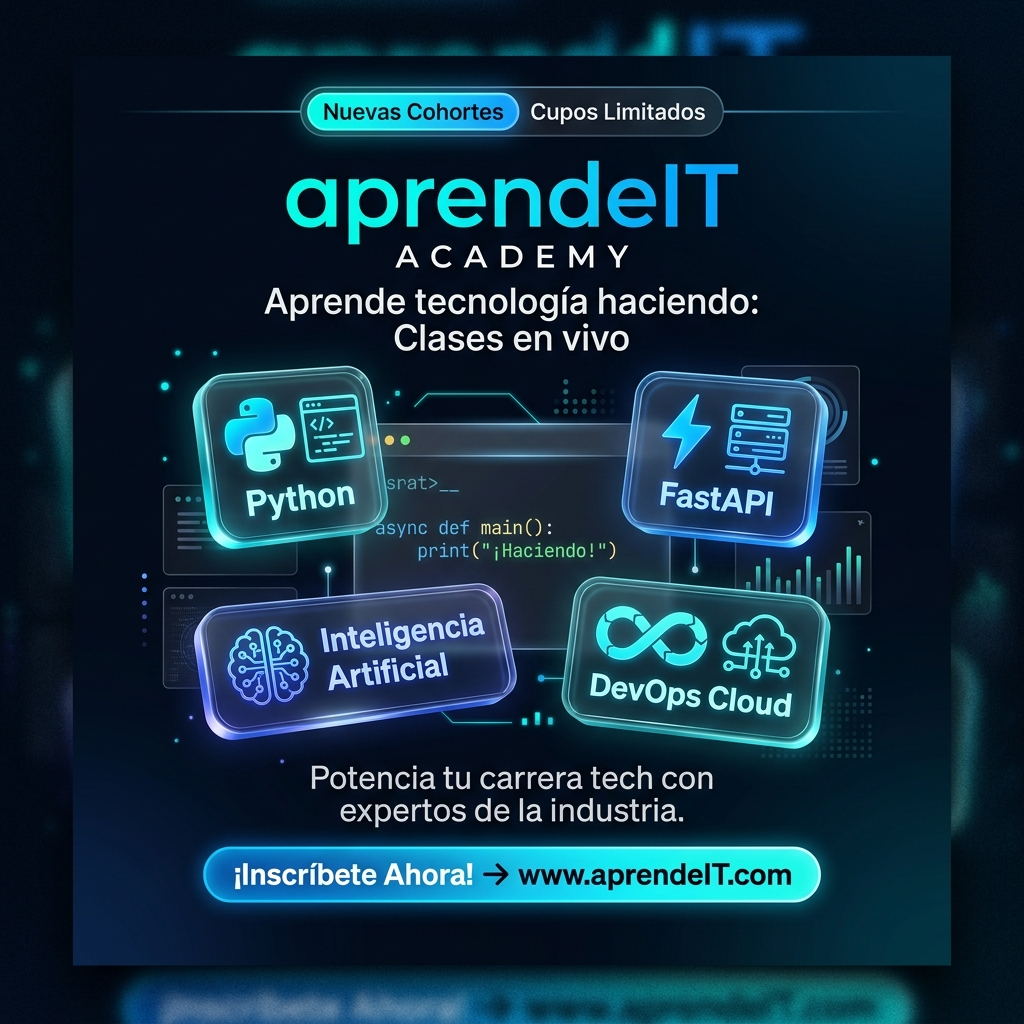
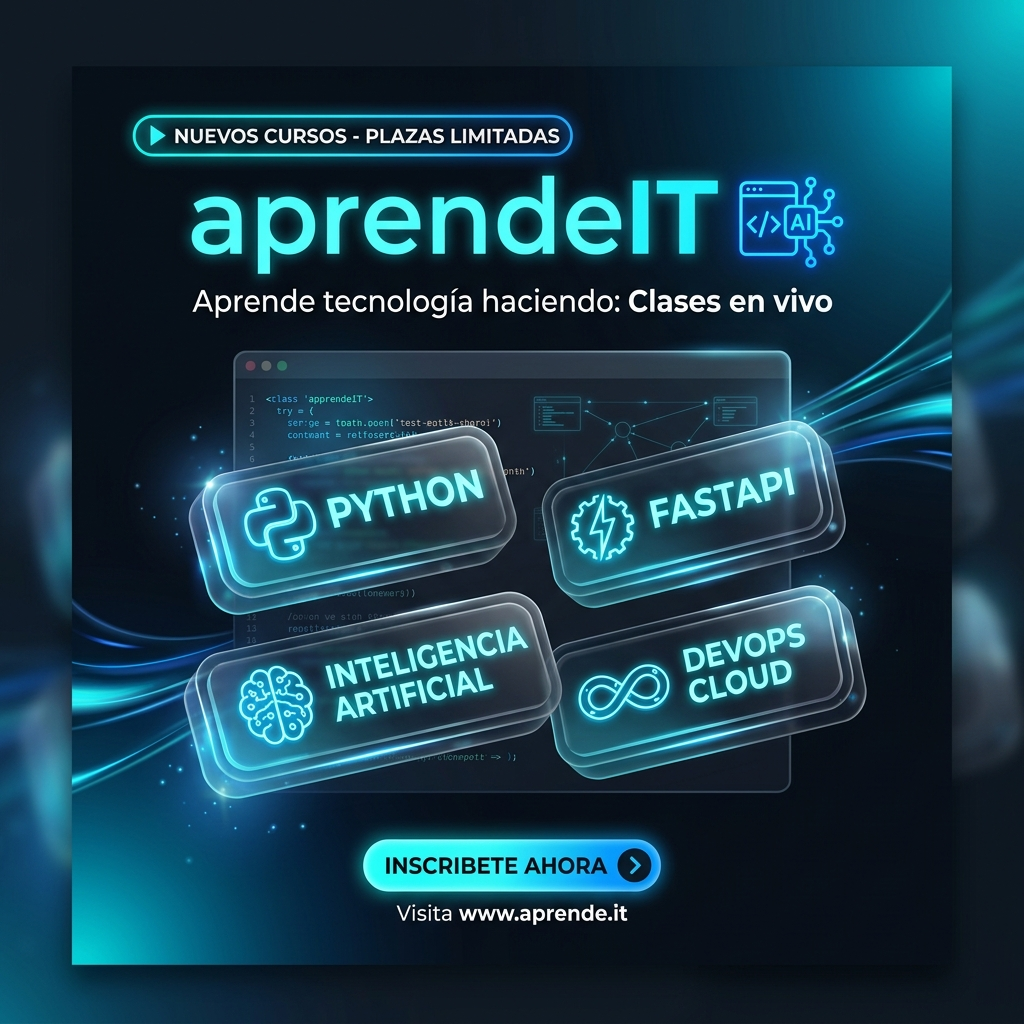
refactor: update terminology across landing page and marketing kit to natural 'cursos' and 'plazas'

diff --git a/index.html b/index.html
@@ -19,11 +19,11 @@
   <div class="announcement">
     <div class="container announcement__inner">
       <span class="announcement__dot" aria-hidden="true"></span>
-      <span>Nuevas cohortes en Septiembre 2026</span>
+      <span>Inscripciones abiertas · Próximos cursos</span>
       <span class="announcement__separator">·</span>
-      <span>Cupos reducidos por grupo</span>
+      <span>Plazas reducidas por grupo</span>
       <span class="announcement__separator">·</span>
-      <a href="#programas">Conocé los 4 programas <span aria-hidden="true">↗</span></a>
+      <a href="#cursos">Conocé los 4 cursos <span aria-hidden="true">↗</span></a>
     </div>
   </div>
 
@@ -40,14 +40,14 @@
       </button>
 
       <nav class="primary-nav" id="primary-nav" aria-label="Navegación principal">
-        <a href="#programas">Programas</a>
+        <a href="#cursos">Cursos</a>
         <a href="#docentes">Docente</a>
         <a href="#metodo">Nuestro método</a>
         <a href="#recorrido">Recorrido</a>
         <a href="#testimonios">Comunidad</a>
         <a href="#faq">Preguntas</a>
         <a href="/login" style="color: var(--blue); font-weight: 800;">Aula Alumnos ↗</a>
-        <a class="button button--small button--nav" href="#programas">Ver programas <span aria-hidden="true">↗</span></a>
+        <a class="button button--small button--nav" href="#cursos">Ver cursos <span aria-hidden="true">↗</span></a>
       </nav>
     </div>
   </header>
@@ -62,7 +62,7 @@
           <p class="hero__lead">Cursos en vivo para dominar Python, Inteligencia Artificial, Desarrollo Web y Automatización con n8n. Dictados por Jeremias Toledo con un enfoque 100% práctico, código real y sin humo.</p>
           
           <div class="hero__actions">
-            <a class="button button--primary" href="#programas">Explorar programas <span aria-hidden="true">↗</span></a>
+            <a class="button button--primary" href="#cursos">Explorar cursos <span aria-hidden="true">↗</span></a>
             <button class="button button--text" type="button" data-open-quiz>Ayudame a elegir <span aria-hidden="true">→</span></button>
           </div>
 
@@ -126,30 +126,30 @@
       </div>
     </section>
 
-    <!-- PROGRAMAS / CURSOS SECTION (4 CURSOS) -->
-    <section class="programs section-pad" id="programas">
+    <!-- CURSOS SECTION (4 CURSOS) -->
+    <section class="programs section-pad" id="cursos">
       <div class="container">
         <div class="section-heading section-heading--split reveal">
           <div>
             <p class="eyebrow"><span class="eyebrow__line"></span>Elegí tu punto de partida</p>
-            <h2>4 Programas para<br /><em>seguir avanzando.</em></h2>
+            <h2>4 Cursos para<br /><em>seguir avanzando.</em></h2>
           </div>
           <p class="section-heading__side">Una cuidada selección de 4 cursos prácticos dictados por Jeremias Toledo para dominar las herramientas más demandadas hoy en tecnología e inteligencia artificial.</p>
         </div>
 
-        <div class="filter-bar" role="tablist" aria-label="Filtrar programas">
+        <div class="filter-bar" role="tablist" aria-label="Filtrar cursos">
           <button class="filter-button is-active" type="button" data-filter="all" role="tab" aria-selected="true">Todos</button>
           <button class="filter-button" type="button" data-filter="start" role="tab" aria-selected="false">Desde cero</button>
           <button class="filter-button" type="button" data-filter="grow" role="tab" aria-selected="false">Para crecer</button>
           <button class="filter-button" type="button" data-filter="intensive" role="tab" aria-selected="false">Intensivos</button>
-          <span class="filter-count" aria-live="polite"><span id="course-count">04</span> programas disponibles</span>
+          <span class="filter-count" aria-live="polite"><span id="course-count">04</span> cursos disponibles</span>
         </div>
 
         <div class="course-grid" id="course-grid">
           <!-- Cursos renderizados dinámicamente con JavaScript -->
         </div>
 
-        <p class="empty-state" id="empty-state" hidden>No encontramos programas en esta categoría. Probá con otra ruta.</p>
+        <p class="empty-state" id="empty-state" hidden>No encontramos cursos en esta categoría. Probá con otra ruta.</p>
 
         <div class="center-action">
           <a class="button button--outline" href="#contacto">Hacé una consulta personalizada con Jeremias <span aria-hidden="true">↗</span></a>
@@ -393,7 +393,7 @@
               <span class="faq-icon">+</span>
             </button>
             <div class="faq-answer">
-              <p>Todas las clases de los 4 programas son impartidas en vivo y de forma personalizada por <strong>Jeremias Toledo</strong>, fundador de aprendeIT. No delegamos en avatares ni tutores sin experiencia.</p>
+              <p>Todas las clases de los 4 cursos son impartidas en vivo y de forma personalizada por <strong>Jeremias Toledo</strong>, fundador de aprendeIT. No delegamos en avatares ni tutores sin experiencia.</p>
             </div>
           </div>
 
@@ -447,7 +447,7 @@
         <div class="contact__orb contact__orb--two"></div>
         <p class="eyebrow eyebrow--light"><span class="eyebrow__line"></span>El próximo paso empieza acá</p>
         <h2>¿Qué te gustaría<br /><em>construir?</em></h2>
-        <p>Contanos qué tenés en mente. Te ayudamos a elegir el programa que mejor acompaña tus metas técnicas y profesionales.</p>
+        <p>Contanos qué tenés en mente. Te ayudamos a elegir el curso que mejor acompaña tus metas técnicas y profesionales.</p>
         
         <div class="contact-actions">
           <a class="button button--white" href="https://wa.me/543876150875?text=Hola%20Jeremias,%20quiero%20consultar%20por%20los%20cursos%20de%20AprendeIT" target="_blank" rel="noopener">
@@ -471,7 +471,7 @@
       <p>La tecnología se aprende<br />haciendo con Jeremias Toledo.</p>
       
       <div class="footer-links">
-        <a href="#programas">4 Programas</a>
+        <a href="#cursos">4 Cursos</a>
         <a href="#docentes">Docente</a>
         <a href="#metodo">Método</a>
         <a href="#recorrido">Recorrido</a>
@@ -551,20 +551,20 @@
         <!-- Poblado dinámicamente con JS -->
       </div>
 
-      <h3 class="cd-syllabus-title">Contenido del Programa</h3>
+      <h3 class="cd-syllabus-title">Contenido del Curso</h3>
       <div class="cd-modules" id="modal-modules">
         <!-- Módulos inyectados dinámicamente -->
       </div>
 
       <div class="cd-pricing-box">
         <div>
-          <span class="cd-meta-label">Inversión del programa</span>
+          <span class="cd-meta-label">Inversión del curso</span>
           <div class="cd-price-main" id="modal-price">$130.000 ARS</div>
           <span class="cd-price-sub" id="modal-price-usd">o $135 USD</span>
           <div style="font-size: 11px; color: var(--muted); margin-top: 2px;" id="modal-installments">Hasta 6 cuotas fijas sin interés</div>
         </div>
         <a class="button button--primary" href="https://wa.me/543876150875" target="_blank" rel="noopener" id="modal-enroll-btn">
-          Reservar mi lugar <span aria-hidden="true">↗</span>
+          Reservar mi plaza <span aria-hidden="true">↗</span>
         </a>
       </div>
     </div>

diff --git a/main.js b/main.js
@@ -316,7 +316,7 @@ function fillModal(c) {
   }
 
   if (enrollBtn) {
-    const text = encodeURIComponent(`Hola Jeremias! Me interesa inscribirme al intensivo de 2 semanas "${c.title}" en AprendeIT.`);
+    const text = encodeURIComponent(`Hola Jeremias! Me interesa reservar una plaza para el curso "${c.title}" en AprendeIT.`);
     enrollBtn.href = `https://wa.me/543876150875?text=${text}`;
   }
 }

diff --git a/marketing/COPIES_REDES.md b/marketing/COPIES_REDES.md
@@ -1,6 +1,6 @@
 # 📱 Kit de Publicación para Redes Sociales — AprendeIT
 
-Aquí tenés los copies listos para copiar y pegar en cada una de tus plataformas, junto con las imágenes del flyer diseñadas para feed y stories.
+Copies listos para copiar y pegar en cada una de tus plataformas, redactados con un lenguaje natural, directo y enfocado en **cursos**, **plazas limitadas** y **práctica real**.
 
 ---
 
@@ -13,9 +13,9 @@ Aquí tenés los copies listos para copiar y pegar en cada una de tus plataforma
 ```text
 🚀 ¿Querés dominar la tecnología que hoy buscan las empresas?
 
-Dejá de perder tiempo en tutoriales aislados. En **aprendeIT** aprendés programando proyectos reales, en vivo y con mentoría directa.
+Dejá de perder tiempo en tutoriales grabados que no terminás. En **aprendeIT** aprendés programando proyectos reales, con clases 100% en vivo y acompañamiento directo.
 
-🔥 **Nuevas cohortes abiertas — Cupos reducidos por grupo:**
+🔥 **Inscripciones abiertas — Nuevos cursos intensivos (Plazas limitadas):**
 
 ⚡ **1. FastAPI & Microservicios:** Creá APIs asíncronas, arquitecturas escalables, Docker y PostgreSQL listos para producción.
 🤖 **2. Automatizaciones con IA & Agentes:** Conectá LLMs, LangChain, OpenAI, Notion y Webhooks para automatizar procesos clave.
@@ -23,21 +23,21 @@ Dejá de perder tiempo en tutoriales aislados. En **aprendeIT** aprendés progra
 ☁ **4. DevOps Cloud & CI/CD:** Desplegá tus aplicaciones con Docker, Nginx, GitHub Actions y servidores en la nube.
 
 💡 **¿Cómo es la experiencia aprendeIT?**
-✅ Clases 100% en vivo + acceso a grabaciones de por vida.
-✅ Práctica intensiva (2 semanas por programa con entregas reales).
-✅ Grupos reducidos para responder cada una de tus dudas en tiempo real.
+✅ Clases 100% en vivo + acceso a las grabaciones sin límite de tiempo.
+✅ Práctica intensiva (cursos de 2 semanas con entregas reales).
+✅ Grupos reducidos para responder cada una de tus dudas en el momento.
 ✅ Acceso a nuestra comunidad exclusiva de Discord y aula virtual.
 
-📍 **Cupos estrictamente limitados para mantener la calidad de mentoría.**
+📍 **Pocas plazas por curso para garantizar que cada alumno avance a paso firme.**
 
-👉 Conocé los temarios completos y reservá tu lugar en:
+👉 Conocé los temarios completos y asegurá tu lugar en:
 🌐 https://aprendeit-net.github.io
 
 💬 O escribinos directamente por WhatsApp para asesorarte:
 📲 https://wa.me/543876150875
 
 ---
-#AprendeIT #Programacion #FastAPI #Python #InteligenciaArtificial #DevOps #Docker #Backend #DesarrolloWeb #TechEducation #AprenderAProgramar #CodingBootcamp #CursosOnline
+#AprendeIT #Programacion #FastAPI #Python #InteligenciaArtificial #DevOps #Docker #Backend #DesarrolloWeb #TechEducation #AprenderAProgramar #CursosProgramacion #CursosOnline
 ```
 
 ---
@@ -49,25 +49,25 @@ Dejá de perder tiempo en tutoriales aislados. En **aprendeIT** aprendés progra
 ### 📝 Copy:
 
 ```text
-El mercado tecnológico no busca más certificados teóricos: busca desarrolladores capaces de construir, desplegar y solucionar problemas reales.
+El mercado tecnológico no busca certificados teóricos: busca desarrolladores capaces de construir, desplegar y solucionar problemas reales.
 
-Por eso creamos aprendeIT, una propuesta de formación intensiva diseñada para transformar tu perfil técnico a través de la práctica aplicada y clases 100% en vivo.
+Por eso creamos aprendeIT, una propuesta de formación práctica diseñada para potenciar tu perfil técnico a través de cursos intensivos y clases 100% en vivo.
 
-Abrimos inscripciones para las nuevas cohortes:
+Abrimos plazas para los próximos cursos:
 
 🔹 FastAPI & Arquitectura de Microservicios: Desarrollo backend asíncrono, autenticación JWT, Docker y bases de datos relacionales.
 🔹 Automatizaciones con Inteligencia Artificial: Integración de modelos LLM, agentes autónomos y pipelines de automatización.
 🔹 Python Profesional: Estructuración de proyectos, buenas prácticas, clean code y testing.
 🔹 DevOps & Cloud Deploy: Contenedores, CI/CD, configuración de servidores e infraestructura web.
 
-Cada programa está diseñado en formato intensivo de 2 semanas, con grupos reducidos para garantizar un seguimiento personalizado y resolución de dudas en vivo.
+Cada curso está estructurado en un formato intensivo de 2 semanas, con plazas limitadas por grupo para garantizar un seguimiento personalizado y resolución de dudas en vivo.
 
 🔗 Explorá los programas detallados y temarios en nuestra plataforma:
 https://aprendeit-net.github.io
 
 📲 Consultas e inscripciones vía WhatsApp: +54 387 615-0875 (https://wa.me/543876150875)
 
-#DesarrolloDeSoftware #Python #FastAPI #DevOps #InteligenciaArtificial #Backend #Tecnologia #FormacionProfesional #AprendeIT
+#DesarrolloDeSoftware #Python #FastAPI #DevOps #InteligenciaArtificial #Backend #Tecnologia #FormacionProfesional #AprendeIT #CursosIT
 ```
 
 ---
@@ -79,15 +79,15 @@ https://aprendeit-net.github.io
 ```text
 Aprender tecnología no tiene por qué ser aburrido ni solitario. 🚀
 
-En @aprendeIT lanzamos nuevas cohortes de formación intensiva en vivo:
+En @aprendeIT abrimos plazas para los nuevos cursos intensivos en vivo:
 ⚡ FastAPI & Microservicios
 🤖 Automatizaciones con IA
 🐍 Python Profesional
 ☁ DevOps & Cloud
 
-Grupos reducidos. Práctica real.
+Grupos reducidos. Proyectos reales. Pocas plazas.
 
-Cupos abiertos 👇
+Asegurá tu lugar 👇
 🌐 https://aprendeit-net.github.io
 ```
 
@@ -100,16 +100,16 @@ Cupos abiertos 👇
 ```text
 👋 ¡Hola! ¿Cómo estás?
 
-Te cuento que acabamos de abrir inscripciones para las nuevas cohortes de *aprendeIT* 🚀
+Te cuento que acabamos de abrir inscripciones para los nuevos *cursos intensivos de aprendeIT* 🚀
 
-Son programas intensivos de 2 semanas con *clases 100% en vivo*, pensados para aprender haciendo con proyectos reales:
+Son programas de 2 semanas con *clases 100% en vivo*, pensados para aprender haciendo con proyectos reales:
 
 1⃣ *FastAPI & Microservicios* (Backend moderno, Docker, Postgres)
 2⃣ *Automatizaciones con IA* (Agentes, LLMs, flujos inteligentes)
 3⃣ *Python Profesional* (Fundamentos, POO, APIs)
 4⃣ *DevOps Cloud* (Deploy, Nginx, CI/CD, Servidores)
 
-👥 *Los cupos son súper reducidos* para que podamos trabajar de forma personalizada con cada alumno.
+👥 *Las plazas son súper limitadas* para poder trabajar de forma personalizada con cada alumno.
 
 Podés ver los temarios completos y valores acá:
 👉 https://aprendeit-net.github.io
